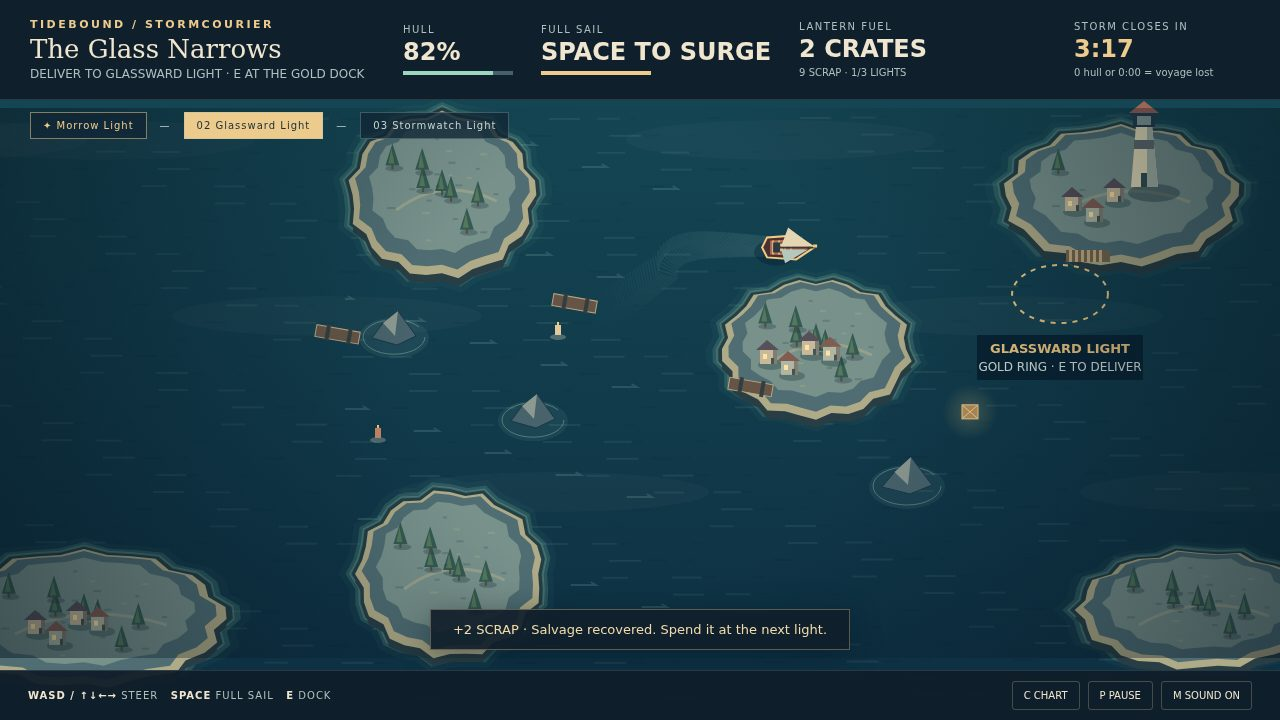
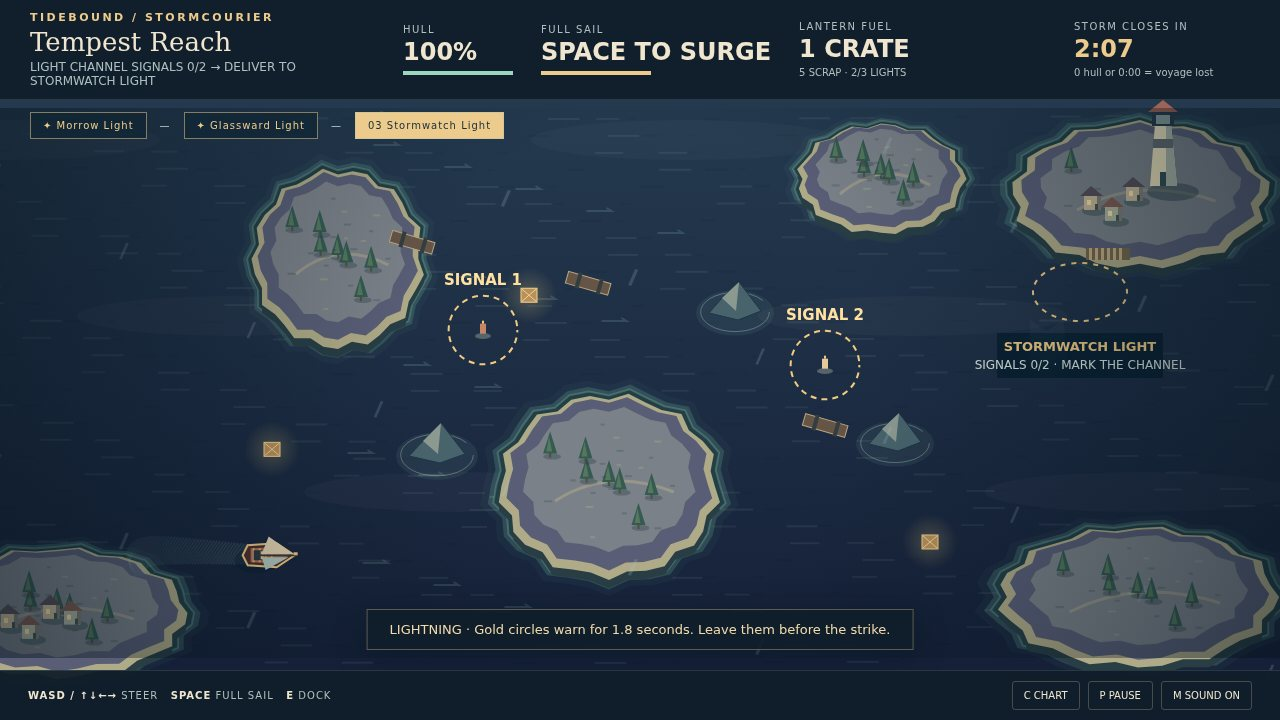
Add channel navigation, fair route rewards and tested campaign polish

diff --git a/game/src/main.js b/game/src/main.js
@@ -3,6 +3,7 @@ import { REGIONS, distance } from './regions.js';
 import { updateSailing } from './sailing.js';
 import { drawWorld } from './coastal-art.js';
 import { unlockAudio, toggleSound, playCue } from './audio.js';
+import { pauseScreen, dockScreen, resultScreen, voyageScore } from './screens.js';
 
 const state = createVoyage();
 const canvas = document.querySelector('#sea');
@@ -15,7 +16,11 @@ try { best = Number(localStorage.getItem('stormcourier-best') || 0); } catch {}
 
 function fitStage() {
   const scale = Math.min(innerWidth / 1280, innerHeight / 720);
-  element('stage').style.transform = `scale(${scale})`;
+  const stage = element('stage');
+  stage.style.position = 'absolute';
+  stage.style.left = '50%';
+  stage.style.top = '50%';
+  stage.style.transform = `translate(-50%, -50%) scale(${scale})`;
 }
 function beginVoyage() {
   unlockAudio(); startVoyage(state); paused = false; chartOpen = false;
@@ -35,27 +40,19 @@ function spendAtDock(choice) {
   unlockAudio();
   if (chooseDock(state, choice)) { previousPhase = ''; updateInterface(); }
 }
-function summaryMarkup() {
-  return `<div class="summary"><div><strong>${state.beacons}/3</strong>BEACONS RELIT</div><div><strong>${Math.round(state.hull)}%</strong>HULL REMAINING</div><div><strong>${state.recovered}</strong>SALVAGE RECOVERED</div><div><strong>${Math.ceil(state.timeLeft)}s</strong>STORM MARGIN</div></div>`;
-}
 function renderModal() {
   const modal = element('modal');
-  const visible = paused || ['dock', 'won', 'lost'].includes(state.phase);
-  modal.hidden = !visible;
-  if (!visible) return;
-  if (paused) {
-    modal.innerHTML = '<div class="eyebrow">SAFE HARBOR</div><h2 id="modal-heading">The tide can wait.</h2><p>Voyage paused. Your boat and the storm clock are held.</p><button class="primary" data-action="resume">RESUME · P</button><button class="secondary" data-action="restart">NEW VOYAGE · R</button>';
-  } else if (state.phase === 'dock') {
-    const next = REGIONS[state.region + 1];
-    modal.innerHTML = `<div class="eyebrow">${REGIONS[state.region].beacon.toUpperCase()} / BEACON RELIT</div><h2 id="modal-heading">A little light goes a long way.</h2>${summaryMarkup()}<p>The harbor pays +3 scrap. Choose what you need before ${next.name}.</p><div class="shop"><button data-buy="repair" ${state.scrap < 3 || state.hull >= 100 ? 'disabled' : ''}><b>PATCH HULL · 3 SCRAP</b><small>Restore 45 hull.<br>Trade repairs for upgrades.</small></button><button data-buy="armor" ${state.scrap < 4 || state.armor ? 'disabled' : ''}><b>${state.armor ? 'COPPER HULL FITTED' : 'COPPER HULL · 4 SCRAP'}</b><small>42% less impact damage.<br>Weather the narrow water.</small></button><button data-buy="canvas" ${state.scrap < 4 || state.canvas ? 'disabled' : ''}><b>${state.canvas ? 'STORM CANVAS FITTED' : 'STORM CANVAS · 4 SCRAP'}</b><small>18% more sailing speed.<br>Buy time at greater risk.</small></button></div><div class="route-row"><button data-buy="route">${state.route === 'shelter' ? 'SHELTERED PASSAGE' : 'EXPRESS TIDE'} ↻</button><span>${state.route === 'shelter' ? 'Weaker current and fewer lightning strikes. The careful crossing.' : 'Stronger current and more frequent lightning. Master the faster water.'} · ${state.scrap} SCRAP AVAILABLE</span></div><button class="primary" data-buy="depart">DEPART FOR ${next.name.toUpperCase()} ↗</button>`;
-  } else {
-    const won = state.phase === 'won';
-    const score = Math.round(state.score + state.hull * 10 + state.timeLeft * 5);
-    if (won && score > best) {
+  modal.hidden = !(paused || ['dock', 'won', 'lost'].includes(state.phase));
+  if (modal.hidden) return;
+  if (paused) modal.innerHTML = pauseScreen();
+  else if (state.phase === 'dock') modal.innerHTML = dockScreen(state);
+  else {
+    const score = voyageScore(state);
+    if (state.phase === 'won' && score > best) {
       best = score;
       try { localStorage.setItem('stormcourier-best', String(best)); } catch {}
     }
-    modal.innerHTML = `<div class="eyebrow ${won ? '' : 'loss-label'}">${won ? 'THE COAST IS HOME' : 'VOYAGE LOST'}</div><h2 id="modal-heading">${won ? 'Three lights. One way home.' : 'The sea keeps its stories.'}</h2><p>${won ? 'Every beacon burns again. The fishing fleet follows your lights through the storm.' : state.reason}</p>${summaryMarkup()}<p>VOYAGE SCORE ${score.toLocaleString()} · PERSONAL BEST ${best.toLocaleString()}</p><button class="primary" data-action="restart">SAIL ANOTHER VOYAGE · R</button><button class="secondary" data-action="title">RETURN TO TITLE</button>`;
+    modal.innerHTML = resultScreen(state, best);
   }
 }
 function updateInterface() {
@@ -65,7 +62,9 @@ function updateInterface() {
   element('hud').hidden = state.phase === 'title';
   element('voyage-path').hidden = state.phase === 'title';
   element('region-name').textContent = region.name;
-  element('mission').textContent = `DELIVER TO ${region.beacon.toUpperCase()} · E AT THE GOLD DOCK`;
+  element('mission').textContent = state.signals.length < 2
+    ? `LIGHT CHANNEL SIGNALS ${state.signals.length}/2 → DELIVER TO ${region.beacon.toUpperCase()}`
+    : `CHANNEL CLEAR → ${region.beacon.toUpperCase()} · E AT THE GOLD DOCK`;
   element('hull-value').textContent = `${Math.ceil(state.hull)}%`;
   element('hull-meter').style.width = `${state.hull}%`;
   element('sail-meter').style.width = `${state.boat.stamina}%`;
@@ -78,8 +77,11 @@ function updateInterface() {
   element('notice').hidden = !state.messageTime || state.phase !== 'sailing';
   element('notice').textContent = state.message;
   element('dock-prompt').hidden = state.phase !== 'sailing' || distance(state.boat, region.dock) > 76;
+  element('dock-prompt').querySelector('span').innerHTML = state.signals.length === 2
+    ? 'DELIVER LANTERN FUEL<br><small>Channel marked · relight the beacon</small>'
+    : `CHANNEL SIGNALS ${state.signals.length}/2<br><small>Light the numbered gold rings first</small>`;
   element('chart').hidden = !chartOpen;
-  if (chartOpen) element('chart-content').innerHTML = `<div class="eyebrow">THE STORMCOURIER'S CHART</div><h2>Three lights before nightfall.</h2>${REGIONS.map((r, i) => `<div class="chart-row"><span class="badge">${i < state.beacons ? '✦' : i + 1}</span><div><strong>${r.name} · ${i < state.beacons ? 'RELIT' : i === state.region ? 'SAILING NOW' : 'AHEAD'}</strong><small>${r.warning}</small></div></div>`).join('')}<p>Gold dock rings mark your destination. Striped reefs hurt the hull. Collect floating salvage to fund repairs and upgrades. The chart pauses the storm.</p>`;
+  if (chartOpen) element('chart-content').innerHTML = `<div class="eyebrow">THE STORMCOURIER'S CHART</div><h2>Three lights before nightfall.</h2>${REGIONS.map((r, i) => `<div class="chart-row"><span class="badge">${i < state.beacons ? '✦' : i + 1}</span><div><strong>${r.name} · ${i < state.beacons ? 'RELIT' : i === state.region ? 'SAILING NOW' : 'AHEAD'}</strong><small>${r.warning} · ${i === state.region ? `${state.signals.length}/2 CHANNEL SIGNALS LIT` : '2 SIGNALS → BEACON'}</small></div></div>`).join('')}<p>Light both numbered channel signals in each region, then deliver at the gold dock. Reefs hurt your hull; floating salvage funds repairs and upgrades. Express: 25% speed, +2 delivery scrap, 30% more damage. The chart pauses the storm.</p>`;
   const phaseKey = `${state.phase}:${paused}:${state.scrap}:${state.route}:${state.hull}:${state.armor}:${state.canvas}`;
   if (phaseKey !== previousPhase) { previousPhase = phaseKey; renderModal(); }
 }

diff --git a/game/src/screens.js b/game/src/screens.js
@@ -1,0 +1,69 @@
+import { REGIONS } from './regions.js';
+
+export function voyageSummary(state) {
+  return `<div class="summary">
+    <div><strong>${state.beacons}/3</strong>BEACONS RELIT</div>
+    <div><strong>${Math.round(state.hull)}%</strong>HULL REMAINING</div>
+    <div><strong>${state.recovered}</strong>SALVAGE RECOVERED</div>
+    <div><strong>${Math.ceil(state.timeLeft)}s</strong>STORM MARGIN</div>
+  </div>`;
+}
+
+export function pauseScreen() {
+  return `<div class="eyebrow">SAFE HARBOR</div>
+    <h2 id="modal-heading">The tide can wait.</h2>
+    <p>Voyage paused. Your boat and the storm clock are held.</p>
+    <button class="primary" data-action="resume">RESUME · P</button>
+    <button class="secondary" data-action="restart">NEW VOYAGE · R</button>`;
+}
+
+export function dockScreen(state) {
+  const next = REGIONS[state.region + 1];
+  const express = state.route === 'express';
+  return `<div class="eyebrow">${REGIONS[state.region].beacon.toUpperCase()} / BEACON RELIT</div>
+    <h2 id="modal-heading">A little light goes a long way.</h2>
+    ${voyageSummary(state)}
+    <p>Harbor paid +${state.lastPayment} scrap for this delivery.
+       Choose what you need before ${next.name}.</p>
+    <div class="shop">
+      <button data-buy="repair" ${state.scrap < 3 || state.hull >= 100 ? 'disabled' : ''}>
+        <b>PATCH HULL · 3 SCRAP</b>
+        <small>Restore 45 hull.<br>Trade repairs for upgrades.</small>
+      </button>
+      <button data-buy="armor" ${state.scrap < 4 || state.armor ? 'disabled' : ''}>
+        <b>${state.armor ? 'COPPER HULL FITTED' : 'COPPER HULL · 4 SCRAP'}</b>
+        <small>42% less impact damage.<br>Weather the narrow water.</small>
+      </button>
+      <button data-buy="canvas" ${state.scrap < 4 || state.canvas ? 'disabled' : ''}>
+        <b>${state.canvas ? 'STORM CANVAS FITTED' : 'STORM CANVAS · 4 SCRAP'}</b>
+        <small>18% more sailing speed.<br>Buy time at greater risk.</small>
+      </button>
+    </div>
+    <div class="route-row">
+      <button data-buy="route">${express ? 'EXPRESS TIDE' : 'SHELTERED PASSAGE'} ↻</button>
+      <span>${express
+        ? '25% faster, +2 scrap per delivery; 30% more damage and more lightning.'
+        : 'Standard speed and damage; +3 scrap per delivery. The careful crossing.'}
+        · ${state.scrap} SCRAP AVAILABLE</span>
+    </div>
+    <button class="primary" data-buy="depart">DEPART FOR ${next.name.toUpperCase()} ↗</button>`;
+}
+
+export function voyageScore(state) {
+  return Math.round(state.score + state.hull * 10 + state.timeLeft * 5);
+}
+
+export function resultScreen(state, best) {
+  const won = state.phase === 'won';
+  return `<div class="eyebrow ${won ? '' : 'loss-label'}">
+      ${won ? 'THE COAST IS HOME' : 'VOYAGE LOST'}
+    </div>
+    <h2 id="modal-heading">${won ? 'Three lights. One way home.' : 'The sea keeps its stories.'}</h2>
+    <p>${won
+      ? 'Every beacon burns again. The fishing fleet follows your lights through the storm.'
+      : state.reason}</p>
+    ${voyageSummary(state)}
+    <p>VOYAGE SCORE ${voyageScore(state).toLocaleString()} · PERSONAL BEST ${best.toLocaleString()}</p>
+    <button class="primary" data-action="restart">SAIL ANOTHER VOYAGE · R</button>
+    <button class="secondary" data-action="title">RETURN TO TITLE</button>`;
+}

diff --git a/game/src/sailing.js b/game/src/sailing.js
@@ -4,7 +4,7 @@ import { tick, announce } from './campaign.js';
 export function damageHull(state, amount, cause) {
   const boat = state.boat;
   if (boat.invulnerable > 0 || state.phase !== 'sailing') return;
-  const damage = Math.round(amount * (state.armor ? 0.58 : 1));
+  const damage = Math.round(amount * (state.armor ? 0.58 : 1) * (state.route === 'express' ? 1.3 : 1));
   state.hull = Math.max(0, state.hull - damage);
   boat.invulnerable = 1.15;
   state.shake = 12;
@@ -31,7 +31,7 @@ export function updateSailing(state, input, dt) {
   const fullSail = !!input.boost && boat.stamina > 4 && length > 0;
   boat.fullSail = fullSail;
   boat.stamina = Math.max(0, Math.min(100, boat.stamina + dt * (fullSail ? -26 : 19)));
-  const speed = (fullSail ? 226 : 142) * (state.canvas ? 1.18 : 1);
+  const speed = (fullSail ? 226 : 142) * (state.canvas ? 1.18 : 1) * (state.route === 'express' ? 1.25 : 1);
   const response = 1 - Math.exp(-dt * (fullSail ? 3.1 : 7.5));
   const inTide = state.region > 0 && boat.x > 350 && boat.x < 680;
   const tide = inTide ? region.current * (state.route === 'express' ? 1.6 : 1) : 0;
@@ -60,6 +60,12 @@ export function updateSailing(state, input, dt) {
       boat.vx *= 0.3; boat.vy *= 0.3;
     }
   }
+  region.buoys.forEach((buoy, index) => {
+    if (!state.signals.includes(index) && distance(boat, buoy) < 42) {
+      state.signals.push(index); state.score += 250;
+      announce(state, `CHANNEL SIGNAL ${index + 1} LIT · ${state.signals.length}/2. ${state.signals.length === 2 ? 'The dock is ready for delivery.' : 'Sail for the other numbered signal.'}`, 'salvage');
+    }
+  });
   region.salvage.forEach((crate, index) => {
     if (!state.taken.includes(index) && distance(boat, crate) < 34) {
       state.taken.push(index);

diff --git a/game/src/coastal-art.js b/game/src/coastal-art.js
@@ -166,6 +166,13 @@ export function drawWorld(ctx, state, time) {
   region.islands.forEach(island => drawIsland(ctx, island, region, time, island.light && state.beacons > state.region));
   region.reefs.forEach(reef => drawReef(ctx, reef, time));
   region.buoys.forEach((buoy, i) => {
+    const lit = state.signals.includes(i);
+    ctx.strokeStyle = lit ? '#9bd7bd' : '#f2cb82';
+    ctx.lineWidth = 2; ctx.setLineDash(lit ? [] : [6, 5]);
+    ctx.beginPath(); ctx.arc(buoy.x, buoy.y, 35 + Math.sin(time * 2) * 2, 0, Math.PI * 2); ctx.stroke();
+    ctx.setLineDash([]); ctx.font = 'bold 15px system-ui'; ctx.textAlign = 'center';
+    ctx.fillStyle = lit ? '#b4f0ca' : '#ffe1a2';
+    ctx.fillText(lit ? 'SIGNAL LIT' : `SIGNAL ${i + 1}`, buoy.x, buoy.y - 45);
     ellipse(ctx, buoy.x, buoy.y + 6, 8, 3, '#d9e2c74d');
     ctx.fillStyle = i ? '#e3c99c' : '#c68566';
     ctx.fillRect(buoy.x - 3, buoy.y - 6 + Math.sin(time * 2), 6, 10);
@@ -213,7 +220,7 @@ function drawDock(ctx, state, time) {
   ctx.textAlign = 'center'; ctx.font = '600 13px system-ui';
   ctx.fillStyle = '#071f30dd'; ctx.fillRect(dock.x - 83, dock.y + 41, 166, 45);
   ctx.fillStyle = GOLD; ctx.fillText(REGIONS[state.region].beacon.toUpperCase(), dock.x, dock.y + 59);
-  ctx.fillStyle = '#d7e4dc'; ctx.font = '12px system-ui'; ctx.fillText('GOLD RING · E TO DELIVER', dock.x, dock.y + 77);
+  ctx.fillStyle = '#d7e4dc'; ctx.font = '12px system-ui'; ctx.fillText(state.signals.length === 2 ? 'CHANNEL CLEAR · E TO DELIVER' : `SIGNALS ${state.signals.length}/2 · MARK THE CHANNEL`, dock.x, dock.y + 77);
 }
 
 function drawLightning(ctx, strike, time) {

diff --git a/game/src/campaign.js b/game/src/campaign.js
@@ -4,11 +4,11 @@ import { REGIONS, distance } from './regions.js';
 export function createVoyage() {
   return {
     phase: 'title', region: 0, beacons: 0, hull: 100, cargo: 3,
-    timeLeft: 210, elapsed: 0, scrap: 4, recovered: 0, delivered: 0,
+    timeLeft: 150, elapsed: 0, scrap: 2, recovered: 0, delivered: 0, lastPayment: 0,
     armor: false, canvas: false, route: 'shelter', score: 0,
     reason: '', events: [], message: '', messageTime: 0,
     boat: { x: 152, y: 548, vx: 0, vy: 0, angle: -0.5, invulnerable: 0, stamina: 100 },
-    particles: [], wake: [], taken: [], lightning: [], nextStrike: 5,
+    particles: [], wake: [], taken: [], signals: [], lightning: [], nextStrike: 5,
   };
 }
 
@@ -30,10 +30,15 @@ export function interact(state) {
     announce(state, 'Sail into the gold dock ring, then press E to deliver.');
     return false;
   }
+  if (state.signals.length < region.buoys.length) {
+    announce(state, 'Light both channel signals before delivering. Follow the numbered gold rings.');
+    return false;
+  }
   state.beacons++;
   state.delivered++;
   state.cargo--;
-  state.scrap += 3;
+  state.lastPayment = state.route === 'express' ? 5 : 3;
+  state.scrap += state.lastPayment;
   state.boat.vx = 0;
   state.boat.vy = 0;
   state.score += 1000;
@@ -47,6 +52,7 @@ export function chooseDock(state, choice) {
   if (choice === 'depart') {
     state.region++;
     state.taken = [];
+    state.signals = [];
     state.lightning = [];
     state.nextStrike = state.elapsed + 4;
     Object.assign(state.boat, REGIONS[state.region].spawn, { vx: 0, vy: 0, stamina: 100 });

diff --git a/game/index.html b/game/index.html
@@ -24,9 +24,9 @@
         <div class="eyebrow">AN ARCHIPELAGO ON THE EDGE OF NIGHT</div>
         <h1>TIDEBOUND<span>STORMCOURIER</span></h1>
         <p class="premise">Three dark lighthouses.<br>One boat carrying the last lantern fuel.</p>
-        <p class="description">Sail the shoals. Salvage what the sea gives back.<br>Relight all three beacons before the storm seals the coast.</p>
+        <p class="description">Light the channel signals. Deliver the lantern fuel.<br>Choose risk or shelter. Bring three beacons home.</p>
         <button id="start" class="primary">BEGIN VOYAGE <span>↗</span></button>
-        <div class="title-rules"><span><b>3</b> BEACONS TO RELIGHT</span><span><b>3:30</b> UNTIL LANDFALL</span></div>
+        <div class="title-rules"><span><b>3</b> BEACONS TO RELIGHT</span><span><b>2:30</b> UNTIL LANDFALL</span></div>
         <div class="controls-title"><b>WASD / ARROWS</b> steer · <b>SPACE</b> full sail<br><b>E</b> deliver at dock · <b>TAB / C</b> chart · <b>M</b> sound</div>
         <small class="fine">An original short sailing adventure · keyboard + mouse · audio after input</small>
       </section>

diff --git a/game/src/regions.js b/game/src/regions.js
@@ -56,7 +56,7 @@ export const REGIONS = [
     ],
     reefs: [{ x: 437, y: 451, r: 28 }, { x: 735, y: 308, r: 26 }, { x: 895, y: 439, r: 26 }],
     salvage: [{ x: 272, y: 450 }, { x: 529, y: 294 }, { x: 930, y: 540 }],
-    buoys: [{ x: 483, y: 369 }, { x: 786, y: 395 }],
+    buoys: [{ x: 483, y: 330 }, { x: 825, y: 365 }],
     safeRoute: [{ x: 150, y: 548 }, { x: 160, y: 540 }, { x: 430, y: 380 }, { x: 700, y: 360 }, { x: 720, y: 370 }, { x: 910, y: 370 }, { x: 1080, y: 292 }],
   },
 ];

diff --git a/README.md b/README.md
@@ -4,7 +4,7 @@
 [![rank](https://make.fun/badge/best-game-01/Omega4T/tidebound-stormcourier/rank.svg)](https://make.fun/bounty/best-game-01/leaderboard)
 [![reward](https://make.fun/badge/best-game-01/Omega4T/tidebound-stormcourier/reward.svg)](https://make.fun/bounty/best-game-01)
 
-An original sailing adventure. Deliver three lantern-fuel crates across an archipelago before the storm closes the coast. Reefs, moving wrecks, currents and telegraphed lightning test your route. Salvage funds repairs, armor or faster canvas at lighthouse docks.
+An original sailing adventure. Mark two channel signals per crossing, then deliver three lantern-fuel crates across an archipelago before the 150-second storm closes the coast. Reefs, moving wrecks, currents and telegraphed lightning test your route. Salvage funds repairs, armor or faster canvas at lighthouse docks. Sheltered passage trades speed for safety; the express contract grants 25% more speed and two extra delivery scrap, but impacts deal 30% more damage and lightning comes sooner.
 
 ## Play locally
 
